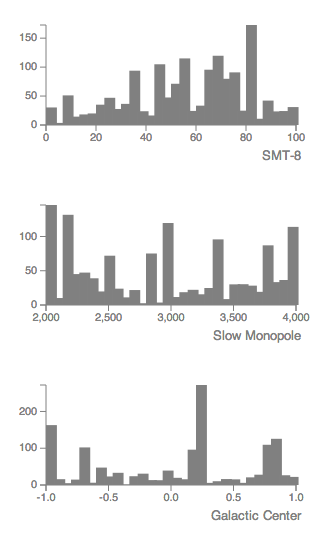
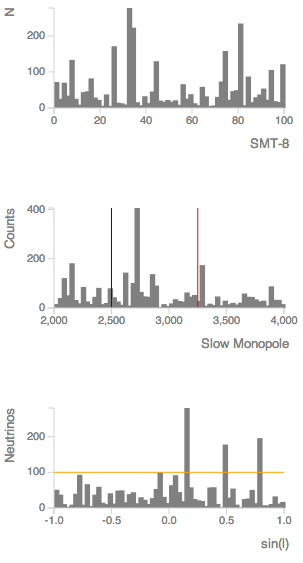
Add horizontal and vertical lines

diff --git a/i3d3.js b/i3d3.js
@@ -58,4 +58,29 @@ function bars(opt) {
         .text(opt.ylabel)
         .attr('transform',
               function(d,i,j) { return 'rotate(-90 ' + xx + ', ' + yy + ')' });
+
+    if(! opt.extras) {
+        opt.extras = [];
+    }
+    function select(vec, key) { 
+        return vec.filter(function(x) { return x[key] !== undefined; }); 
+    }
+    var vbars = select(opt.extras, "vbar");
+    var hbars = select(opt.extras, "hbar");
+    vbars.map(function(v) {
+                  svg.append("svg:line")
+                      .attr("x1", xscale(v.vbar.pos))
+                      .attr("y1", yscale(d3.max(dataset)))
+                      .attr("x2", xscale(v.vbar.pos))
+                      .attr("y2", yscale(d3.min(dataset)))
+                      .style("stroke", v.vbar.color);
+    });
+    hbars.map(function(v) {
+                  svg.append("svg:line")
+                      .attr("x1", xscale(xmin))
+                      .attr("y1", yscale(v.hbar.pos))
+                      .attr("x2", xscale(xmax))
+                      .attr("y2", yscale(v.hbar.pos))
+                      .style("stroke", v.hbar.color);
+    });
 }

diff --git a/example.html b/example.html
@@ -26,27 +26,24 @@ bars({data: [testdata()],
       xlabel: "SMT-8",
       ylabel: "N",
       range: [0, 100],
-      size: [w, h],
-      h: h,
-      w: w});
+      size: [w, h]});
 
 bars({data: [testdata()],
       div: "plot2",
       xlabel: "Slow Monopole",
       ylabel: "Counts",
       range: [2000, 4000],
-      size: [w, h],
-      h: h,
-      w: w});
+      extras: [{vbar: {pos: 2500, color: "blue"}},
+               {vbar: {pos: 3250, color: "red"}}],
+      size: [w, h]});
 
 bars({data: [testdata()],
       div: "plot3",
       xlabel: "sin(l)",
       ylabel: "Neutrinos",
       range: [-1, 1],
-      size: [w, h],
-      h: h,
-      w: w});
+      extras: [{hbar: {pos: 100, color: "orange"}}],
+      size: [w, h]});
 
 </script>
 </body>

diff --git a/style.css b/style.css
@@ -1,6 +1,6 @@
 .axis path, .axis line {
     fill: none;
-    stroke: grey;
+    stroke: lightgrey;
     shape-rendering: black;
 }
 .axis text, .label {

diff --git a/README.md b/README.md
@@ -23,11 +23,10 @@ our requirements, which are:
     - Display X and Y axes
     - Show X and Y axis labels
     - Single or multiple plots per page, of various sizes
+    - Draw horizontal an vertical lines on top of plot
 
 #### Not done
 
-- Add plot titles
-- Draw lines on top of plot
 - Support line plots, scatter plots
 - Show gaps in data
 - Error bars
